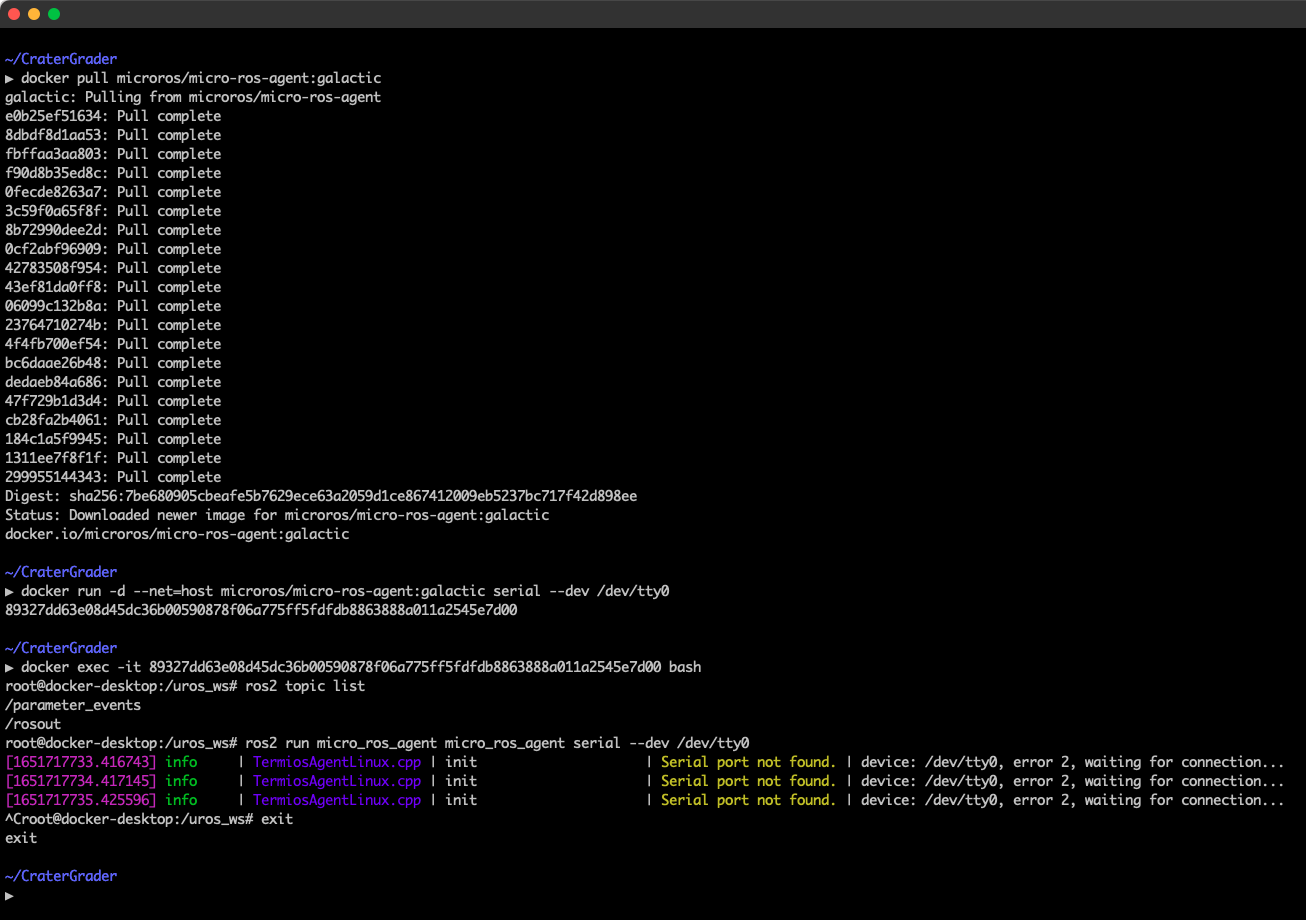
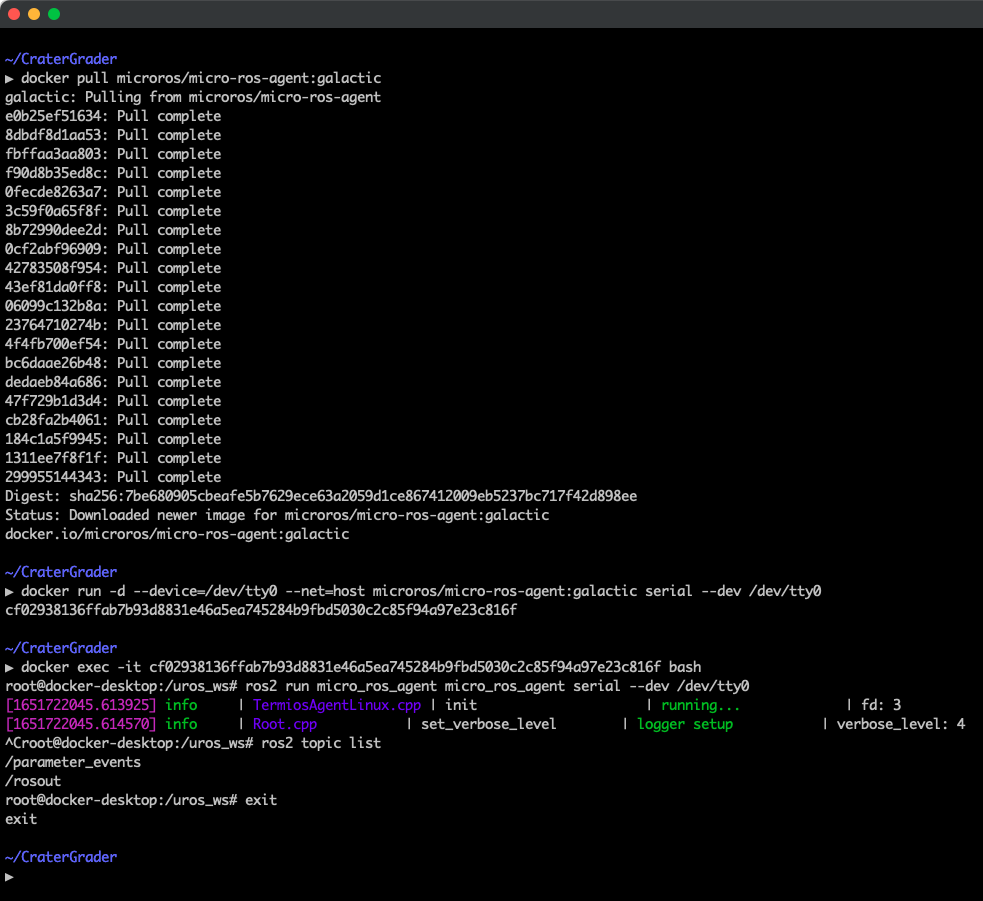
update example image for docker with port exposed

Changed region(s): [[0.0, 0.0622, 0.9766, 0.9634], [0.7325, 0.6526, 0.824, 0.6837], [0.0, 0.0, 0.061, 0.0311]]

diff --git a/wiki/interfacing/microros-for-ros2-on-microcontrollers.md b/wiki/interfacing/microros-for-ros2-on-microcontrollers.md
@@ -141,11 +141,10 @@ docker exec -it <container id> bash
 ```
 ros2 run micro_ros_agent micro_ros_agent serial --dev /dev/tty0
 ```
-Example output for a disconnected device:
+Example output waiting for a connected device:
 ```
-[1651717733.416743] info     | TermiosAgentLinux.cpp | init                     | Serial port not found. | device: /dev/tty0, error 2, waiting for connection...
-[1651717734.417145] info     | TermiosAgentLinux.cpp | init                     | Serial port not found. | device: /dev/tty0, error 2, waiting for connection...
-[1651717735.425596] info     | TermiosAgentLinux.cpp | init                     | Serial port not found. | device: /dev/tty0, error 2, waiting for connection...
+[1651722045.613925] info     | TermiosAgentLinux.cpp | init                     | running...             | fd: 3
+[1651722045.614570] info     | Root.cpp           | set_verbose_level        | logger setup           | verbose_level: 4
 ```
 
 This container should be some variant of Linux OS with a ROS2 installation. You should be able to echo and/or publish ROS2 topics to interact with the `node` on the microcontroller! 
